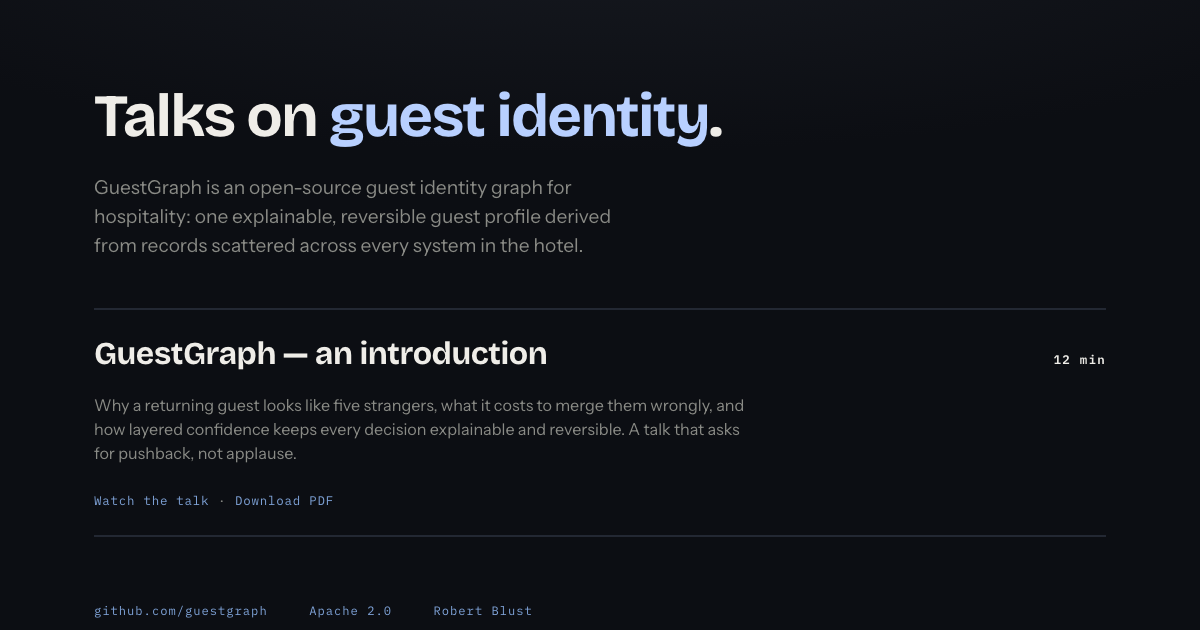
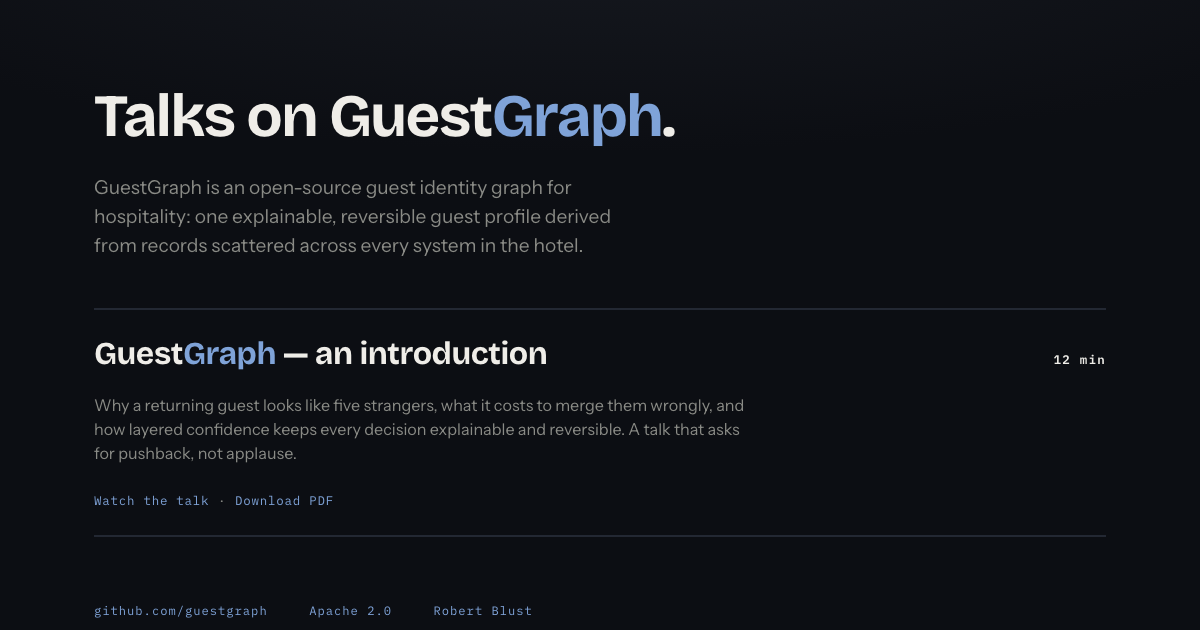
Name the product in the headline, and lock up the wordmark
The talks index led with `Talks on guest identity` — a description of the
subject rather than the name of the thing every talk is about. It says
`Talks on GuestGraph` now, in both languages.

Wherever the name appears as a wordmark it keeps its lockup: Guest in ink,
Graph in the brand accent. That is the headline and the talk title as well as
the header, and all three now measure the same colour, which two of them did
not before — the headline emphasis was --c-firm while the lockup beside it was
--c-mid. --c-mid is right by the token rule, which calls it the brand accent;
--c-firm is for the resolved thing.

Running prose is deliberately left alone. The lede still says GuestGraph in
plain text: colouring every mention would speckle the paragraph and cost the
accent its meaning.

Changed region(s): [[0.2775, 0.1508, 0.6167, 0.2413], [0.1542, 0.5429, 0.2467, 0.6032]]

diff --git a/index.html b/index.html
@@ -96,7 +96,9 @@
 
   h1{font-family:"Bricolage Grotesque", ui-sans-serif, system-ui, sans-serif;
      font-weight:700; line-height:1.04; letter-spacing:-.032em; font-size:clamp(2.1rem,5vw,3.9rem); max-width:21ch}
-  h1 em{font-style:normal; color:var(--c-firm)}
+  /* the wordmark, wherever it appears: Guest in ink, Graph in the brand accent */
+  h1 em{font-style:normal; color:var(--c-mid)}
+  .t em{font-style:normal; color:var(--c-mid)}
   .lede{margin-top:1.6rem; font-size:clamp(1.05rem,1.6vw,1.35rem); color:var(--dim);
         max-width:44ch}
 
@@ -166,13 +168,13 @@
 
 <main>
   <div class="shell">
-    <h1 data-de="Vorträge über <em>Gast-Identität</em>.">Talks on <em>guest identity</em>.</h1>
+    <h1 data-de="Vorträge über Guest<em>Graph</em>.">Talks on Guest<em>Graph</em>.</h1>
     <p class="lede" data-de="GuestGraph ist ein Open-Source-Identitätsgraph für Gäste in der Hotellerie: ein erklärbares, umkehrbares Gastprofil, abgeleitet aus Datensätzen, die über jedes System im Hotel verstreut liegen.">GuestGraph is an open-source guest identity graph for hospitality: one explainable, reversible guest profile derived from records scattered across every system in the hotel.</p>
 
     <div class="talks">
       <div class="talkrow">
       <a class="talk" href="intro/">
-        <span class="t" data-de="GuestGraph — eine Einführung">GuestGraph — an introduction</span>
+        <span class="t" data-de="Guest<em>Graph</em> — eine Einführung">Guest<em>Graph</em> — an introduction</span>
         <span class="meta mono"><b>12 min</b></span>
         <span class="d" data-de="Warum ein Stammgast wie fünf Fremde aussieht, was es kostet, sie falsch zusammenzuführen, und wie gestufte Sicherheit jede Entscheidung erklärbar und umkehrbar hält. Ein Vortrag, der um Gegenwind bittet, nicht um Applaus.">Why a returning guest looks like five strangers, what it costs to merge them wrongly, and how layered confidence keeps every decision explainable and reversible. A talk that asks for pushback, not applause.</span>
       </a>
